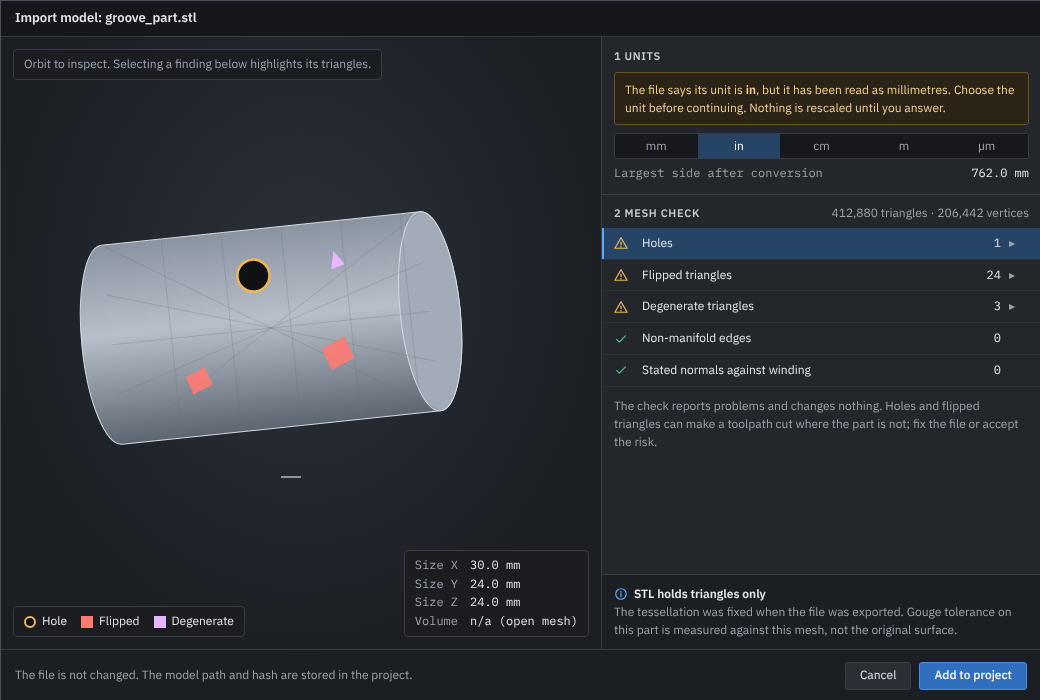
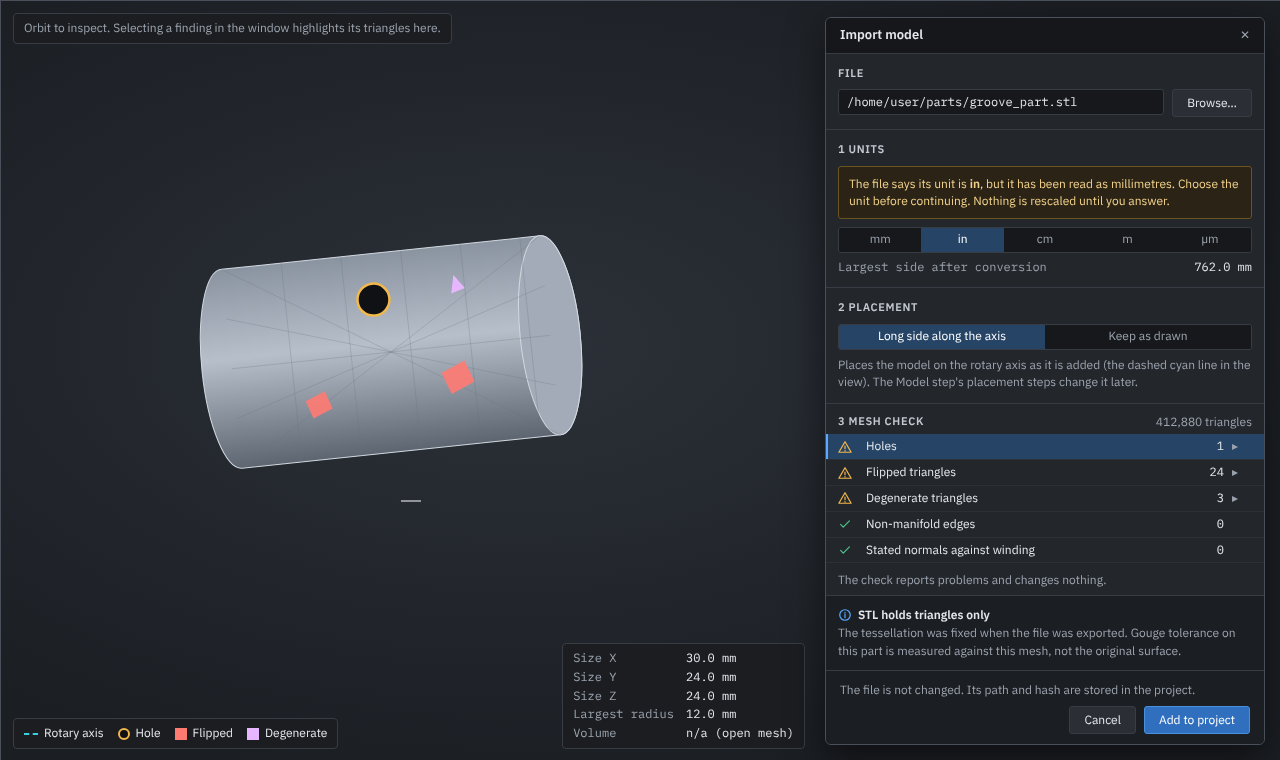
Lane X6: re-render the import, simulate and selection-set boards (OI-342, OI-340 items 4 to 7)
Claude-Session: https://claude.ai/code/session_01CaQnRYKkATbkhtZxbBrPDY

diff --git a/docs/ui-design/mockups/source/ImportCheck.dc.html b/docs/ui-design/mockups/source/ImportCheck.dc.html
@@ -12,7 +12,7 @@
 <link href="https://fonts.googleapis.com/css2?family=IBM+Plex+Mono:wght@400;500&family=IBM+Plex+Sans:wght@400;500;600&display=swap" rel="stylesheet">
 <style>
 body{margin:0}
-.dlg{--p:#23262b;--p2:#2b2f35;--ln:#383d45;--tx:#e4e7eb;--mu:#9ba3ae;--ac:#5aa9ff;--ok:#4cc38a;--wn:#f2b84b;--er:#ff7b72;width:1040px;height:700px;display:flex;flex-direction:column;background:var(--p);color:var(--tx);font:12px/1.4 'IBM Plex Sans',system-ui,sans-serif;overflow:hidden;border:1px solid #4a5059}
+.dlg{--p:#23262b;--p2:#2b2f35;--ln:#383d45;--tx:#e4e7eb;--mu:#9ba3ae;--ac:#5aa9ff;--ok:#4cc38a;--wn:#f2b84b;--er:#ff7b72;width:1280px;height:760px;position:relative;display:flex;flex-direction:column;background:var(--p);color:var(--tx);font:12px/1.4 'IBM Plex Sans',system-ui,sans-serif;overflow:hidden;border:1px solid #4a5059}
 .dlg *{box-sizing:border-box}
 .m{font-family:'IBM Plex Mono',monospace;font-variant-numeric:tabular-nums}
 .mu{color:var(--mu)}
@@ -26,19 +26,15 @@ button{font:inherit;color:inherit;cursor:pointer}
 .seg span{flex:1;display:flex;align-items:center;justify-content:center;background:#16181b;color:var(--mu)}
 .seg span.on{background:#264466;color:#fff}
 .seg span{min-width:0;padding:0 4px;white-space:nowrap;overflow:hidden;text-overflow:ellipsis}
-.ck{display:grid;grid-template-columns:20px 1fr 70px 20px;gap:8px;align-items:center;padding:7px 12px;border-bottom:1px solid #2d3137}
+.ck{display:grid;grid-template-columns:20px 1fr 70px 20px;gap:8px;align-items:center;padding:4px 12px;border-bottom:1px solid #2d3137}
 .ck.sel{background:#264466;box-shadow:inset 2px 0 0 var(--ac)}
 .cnt{text-align:right}
 </style>
 </helmet>
 <div class="dlg">
-  <div style="height:36px;flex:none;display:flex;align-items:center;justify-content:space-between;padding:0 14px;background:#15171a;border-bottom:1px solid var(--ln)">
-    <span style="font-weight:600;font-size:13px">Import model: groove_part.stl</span>
-      </div>
-  <div style="flex:1;min-height:0;display:flex">
-    <!-- preview -->
-    <div style="flex:1;min-width:0;position:relative;background:radial-gradient(ellipse at 50% 40%,#2c3139 0%,#1b1e23 75%)">
-      <svg viewBox="0 0 560 560" width="560" height="560" style="position:absolute;left:0;top:0" role="img" aria-label="Mesh preview with one hole and two flipped triangle regions highlighted">
+  <!-- main viewport behind the window: the placed model with findings, legend bottom left, size radius volume bottom right -->
+  <div style="flex:1;min-width:0;position:relative;background:radial-gradient(ellipse at 40% 45%,#2c3139 0%,#1b1e23 75%)">
+    <svg viewBox="0 0 560 560" preserveAspectRatio="xMidYMid meet" width="760" height="560" style="position:absolute;left:20px;top:60px" role="img" aria-label="Mesh preview with one hole and two flipped triangle regions highlighted">
         <defs><linearGradient id="b" x1="0" y1="0" x2="0" y2="1"><stop offset="0" stop-color="#8a93a0"/><stop offset=".45" stop-color="#b7bfca"/><stop offset="1" stop-color="#5d6570"/></linearGradient></defs>
         <g transform="rotate(-6 280 290)">
           <path d="M110 190H430A30 100 0 0 1 430 390H110A30 100 0 0 1 110 190z" fill="url(#b)" stroke="#d3d9e0"/>
@@ -50,44 +46,56 @@ button{font:inherit;color:inherit;cursor:pointer}
         </g>
         <path d="M280 440H300" stroke="#fff"/>
       </svg>
-      <div style="position:absolute;left:12px;top:12px;background:rgba(27,29,33,.92);border:1px solid var(--ln);border-radius:4px;padding:6px 10px" class="mu">Orbit to inspect. Selecting a finding below highlights its triangles.</div>
-      <div style="position:absolute;left:12px;bottom:12px;background:rgba(27,29,33,.92);border:1px solid var(--ln);border-radius:4px;padding:6px 10px;display:flex;gap:14px;align-items:center">
-        <span style="display:flex;align-items:center;gap:6px"><span style="width:12px;height:12px;border-radius:6px;background:#0f1114;border:2px solid var(--wn)"></span>Hole</span>
-        <span style="display:flex;align-items:center;gap:6px"><span style="width:12px;height:12px;background:var(--er)"></span>Flipped</span>
-        <span style="display:flex;align-items:center;gap:6px"><span style="width:12px;height:12px;background:#e8b6ff"></span>Degenerate</span>
-      </div>
-      <div class="m" style="position:absolute;right:12px;bottom:12px;background:rgba(27,29,33,.92);border:1px solid var(--ln);border-radius:4px;padding:6px 10px;display:grid;grid-template-columns:auto auto;gap:2px 12px">
-        <span class="mu">Size X</span><span>30.0 mm</span><span class="mu">Size Y</span><span>24.0 mm</span><span class="mu">Size Z</span><span>24.0 mm</span><span class="mu">Volume</span><span>n/a (open mesh)</span>
-      </div>
+    <div style="position:absolute;left:12px;top:12px;background:rgba(27,29,33,.92);border:1px solid var(--ln);border-radius:4px;padding:6px 10px" class="mu">Orbit to inspect. Selecting a finding in the window highlights its triangles here.</div>
+    <div style="position:absolute;left:12px;bottom:12px;background:rgba(27,29,33,.92);border:1px solid var(--ln);border-radius:4px;padding:6px 10px;display:flex;gap:14px;align-items:center">
+      <span style="display:flex;align-items:center;gap:6px"><span style="width:14px;height:0;border-top:2px dashed #35d0e0"></span>Rotary axis</span>
+      <span style="display:flex;align-items:center;gap:6px"><span style="width:12px;height:12px;border-radius:6px;background:#0f1114;border:2px solid var(--wn)"></span>Hole</span>
+      <span style="display:flex;align-items:center;gap:6px"><span style="width:12px;height:12px;background:var(--er)"></span>Flipped</span>
+      <span style="display:flex;align-items:center;gap:6px"><span style="width:12px;height:12px;background:#e8b6ff"></span>Degenerate</span>
     </div>
-
-    <!-- right column -->
-    <div style="width:440px;flex:none;border-left:1px solid var(--ln);display:flex;flex-direction:column;min-height:0">
+    <div class="m" style="position:absolute;left:12px;bottom:56px;background:rgba(27,29,33,.92);border:1px solid var(--ln);border-radius:4px;padding:6px 10px;display:none"></div>
+    <div class="m" style="position:absolute;right:476px;bottom:12px;background:rgba(27,29,33,.92);border:1px solid var(--ln);border-radius:4px;padding:6px 10px;display:grid;grid-template-columns:auto auto;gap:2px 12px">
+      <span class="mu">Size X</span><span>30.0 mm</span><span class="mu">Size Y</span><span>24.0 mm</span><span class="mu">Size Z</span><span>24.0 mm</span><span class="mu">Largest radius</span><span>12.0 mm</span><span class="mu">Volume</span><span>n/a (open mesh)</span>
+    </div>
+  </div>
+  <!-- the import window -->
+  <div style="position:absolute;right:16px;top:16px;bottom:16px;width:440px;display:flex;flex-direction:column;background:var(--p);border:1px solid #4a5059;border-radius:6px;box-shadow:0 12px 36px rgba(0,0,0,.5);overflow:hidden">
+    <div style="height:36px;flex:none;display:flex;align-items:center;justify-content:space-between;padding:0 14px;background:#15171a;border-bottom:1px solid var(--ln)"><span style="font-weight:600;font-size:13px">Import model</span><span class="mu">✕</span></div>
+    <div style="flex:1;min-height:0;display:flex;flex-direction:column;overflow:hidden">
+      <div style="padding:12px;border-bottom:1px solid var(--ln)">
+        <div class="h" style="margin-bottom:8px">File</div>
+        <div style="display:flex;gap:8px"><div class="fld m" style="flex:1;min-width:0"><span style="overflow:hidden;text-overflow:ellipsis;white-space:nowrap">/home/user/parts/groove_part.stl</span></div><button class="btn">Browse…</button></div>
+      </div>
       <div style="padding:12px;border-bottom:1px solid var(--ln)">
         <div class="h" style="margin-bottom:8px">1 Units</div>
         <div style="padding:8px 10px;border:1px solid #6b5420;background:#2a2316;border-radius:3px;color:#f2d28a;line-height:1.45;margin-bottom:8px">The file says its unit is <b>in</b>, but it has been read as millimetres. Choose the unit before continuing. Nothing is rescaled until you answer.</div>
         <div class="seg" style="margin-bottom:6px"><span>mm</span><span class="on">in</span><span>cm</span><span>m</span><span>µm</span></div>
         <div class="m" style="display:flex;justify-content:space-between"><span class="mu">Largest side after conversion</span><span>762.0 mm</span></div>
       </div>
+      <div style="padding:12px;border-bottom:1px solid var(--ln)">
+        <div class="h" style="margin-bottom:8px">2 Placement</div>
+        <div class="seg" style="margin-bottom:6px"><span class="on">Long side along the axis</span><span>Keep as drawn</span></div>
+        <div class="mu" style="line-height:1.45">Places the model on the rotary axis as it is added (the dashed cyan line in the view). The Model step's placement steps change it later.</div>
+      </div>
       <div style="flex:1;min-height:0;display:flex;flex-direction:column">
-        <div style="padding:10px 12px 6px;display:flex;justify-content:space-between;align-items:center"><span class="h">2 Mesh check</span><span class="mu">412,880 triangles · 206,442 vertices</span></div>
+        <div style="padding:10px 12px 4px;display:flex;justify-content:space-between;align-items:center"><span class="h">3 Mesh check</span><span class="mu">412,880 triangles</span></div>
         <div class="ck sel"><svg class="ib" style="color:var(--wn)" viewBox="0 0 16 16"><path d="M8 2l7 12H1zM8 7v3M8 12v.5"/></svg><span>Holes</span><span class="m cnt">1</span><span class="mu">▸</span></div>
         <div class="ck"><svg class="ib" style="color:var(--wn)" viewBox="0 0 16 16"><path d="M8 2l7 12H1zM8 7v3M8 12v.5"/></svg><span>Flipped triangles</span><span class="m cnt">24</span><span class="mu">▸</span></div>
         <div class="ck"><svg class="ib" style="color:var(--wn)" viewBox="0 0 16 16"><path d="M8 2l7 12H1zM8 7v3M8 12v.5"/></svg><span>Degenerate triangles</span><span class="m cnt">3</span><span class="mu">▸</span></div>
         <div class="ck"><svg class="ib" style="color:var(--ok)" viewBox="0 0 16 16"><path d="M3 8.5l3 3 7-7"/></svg><span>Non-manifold edges</span><span class="m cnt">0</span><span></span></div>
         <div class="ck"><svg class="ib" style="color:var(--ok)" viewBox="0 0 16 16"><path d="M3 8.5l3 3 7-7"/></svg><span>Stated normals against winding</span><span class="m cnt">0</span><span></span></div>
-        <div style="padding:10px 12px;color:var(--mu);line-height:1.5">The check reports problems and changes nothing. Holes and flipped triangles can make a toolpath cut where the part is not; fix the file or accept the risk.</div>
+        <div style="padding:8px 12px;color:var(--mu);line-height:1.5">The check reports problems and changes nothing.</div>
       </div>
       <div style="padding:10px 12px;border-top:1px solid var(--ln);background:#1b1e22;line-height:1.5"><b style="display:flex;align-items:center;gap:6px"><svg class="ib" style="color:var(--ac)" viewBox="0 0 16 16"><circle cx="8" cy="8" r="6"/><path d="M8 7v4M8 5v.5"/></svg>STL holds triangles only</b><span class="mu">The tessellation was fixed when the file was exported. Gouge tolerance on this part is measured against this mesh, not the original surface.</span></div>
     </div>
-  </div>
-  <div style="height:52px;flex:none;display:flex;align-items:center;justify-content:space-between;padding:0 14px;border-top:1px solid var(--ln);background:#1b1e22">
-    <span class="mu">The file is not changed. The model path and hash are stored in the project.</span>
-    <div style="display:flex;gap:8px"><button class="btn">Cancel</button><button class="btn pri">Add to project</button></div>
+    <div style="flex:none;padding:10px 14px;border-top:1px solid var(--ln);background:#1b1e22;display:flex;flex-direction:column;gap:8px">
+      <span class="mu" style="line-height:1.45">The file is not changed. Its path and hash are stored in the project.</span>
+      <div style="display:flex;gap:8px;justify-content:flex-end"><button class="btn">Cancel</button><button class="btn pri">Add to project</button></div>
+    </div>
   </div>
 </div>
 </x-dc>
-<script type="text/x-dc" data-dc-script data-props='{"$preview":{"width":1040,"height":700}}'>
+<script type="text/x-dc" data-dc-script data-props='{"$preview":{"width":1280,"height":760}}'>
 class Component extends DCLogic {
 renderVals() {
 return {};

diff --git a/docs/ui-design/mockups/source/SelectionSets.dc.html b/docs/ui-design/mockups/source/SelectionSets.dc.html
@@ -12,7 +12,7 @@
 <link href="https://fonts.googleapis.com/css2?family=IBM+Plex+Mono:wght@400;500&family=IBM+Plex+Sans:wght@400;500;600&display=swap" rel="stylesheet">
 <style>
 body{margin:0}
-.w{--p:#23262b;--p2:#2b2f35;--ln:#383d45;--ln2:#2d3137;--tx:#e4e7eb;--mu:#a3abb5;--ac:#5aa9ff;--ok:#4cc38a;--er:#ff7b72;--fld:#16181b;--sel:#264466;--seltx:#fff;--chip:#101215;width:1100px;height:300px;display:flex;flex-direction:column;background:var(--p);color:var(--tx);font:12px/1.4 'IBM Plex Sans',system-ui,sans-serif;overflow:hidden;border-top:1px solid var(--ln)}
+.w{--p:#23262b;--p2:#2b2f35;--ln:#383d45;--ln2:#2d3137;--tx:#e4e7eb;--mu:#a3abb5;--ac:#5aa9ff;--ok:#4cc38a;--er:#ff7b72;--fld:#16181b;--sel:#264466;--seltx:#fff;--chip:#101215;width:1100px;height:372px;display:flex;flex-direction:column;background:var(--p);color:var(--tx);font:12px/1.4 'IBM Plex Sans',system-ui,sans-serif;overflow:hidden;border-top:1px solid var(--ln)}
 .w.light{--p:#f6f7f9;--p2:#fff;--ln:#c9ced5;--ln2:#e2e5e9;--tx:#1d2125;--mu:#56606b;--ac:#1d6ad0;--ok:#1b7f53;--er:#c22b2b;--fld:#fff;--sel:#d4e5fb;--seltx:#0b2a52;--chip:#eef0f3}
 .w *{box-sizing:border-box}
 .m{font-family:'IBM Plex Mono',monospace;font-variant-numeric:tabular-nums}
@@ -23,7 +23,7 @@ button{font:inherit;color:inherit;cursor:pointer}
 .dt{padding:0 12px;height:32px;flex:none;display:flex;align-items:flex-end;gap:2px;border-bottom:1px solid var(--ln)}
 .dtab{padding:7px 12px;color:var(--mu);border-bottom:2px solid transparent}
 .dtab.on{color:var(--tx);border-bottom-color:var(--ac)}
-.r{display:grid;grid-template-columns:18px 1fr 130px 110px 210px 120px 120px;gap:10px;align-items:center;padding:0 12px;height:34px;border-bottom:1px solid var(--ln2)}
+.r{display:grid;grid-template-columns:18px 1fr 100px 100px 190px 240px 120px;gap:10px;align-items:center;padding:0 12px;height:34px;border-bottom:1px solid var(--ln2)}
 .r.h{height:28px;color:var(--mu);font-size:11px;border-bottom:1px solid var(--ln)}
 .r.sel{background:var(--sel);color:var(--seltx)}
 .sw{width:14px;height:14px;border-radius:2px}
@@ -36,25 +36,34 @@ button{font:inherit;color:inherit;cursor:pointer}
 </helmet>
 <div class="w {{theme}}">
   <div class="dt"><span class="dtab">Messages</span><span class="dtab on">Selection sets</span><span class="dtab">Jobs</span></div>
-  <div style="display:flex;align-items:center;gap:8px;padding:8px 12px;border-bottom:1px solid var(--ln)">
+  <div style="display:flex;flex-wrap:wrap;align-items:center;gap:8px;padding:8px 12px;border-bottom:1px solid var(--ln)">
     <button class="btn">New set from selection</button>
     <button class="btn">Add selection to set</button>
     <button class="btn">Remove from set</button>
+    <button class="btn">Replace set</button>
+    <button class="btn">Clear</button>
     <span style="width:1px;height:20px;background:var(--ln);margin:0 4px"></span>
-    <span class="mu">Select by angle within</span><div class="fld" style="width:80px"><b class="m" style="font-weight:400">15</b><span class="mu">°</span></div>
+    <span class="mu">By angle within</span><div class="fld" style="width:64px"><b class="m" style="font-weight:400">15</b><span class="mu">°</span></div>
+    <span class="mu">Same direction within</span><div class="fld" style="width:64px"><b class="m" style="font-weight:400">10</b><span class="mu">°</span></div>
     <span style="flex:1"></span>
-    <span class="mu">Meshes are selected by triangle; STEP models by face and edge.</span>
+    <span class="mu">Meshes: triangles and edges. STEP models: faces and edges.</span>
+  </div>
+  <div style="display:flex;align-items:center;gap:8px;padding:6px 12px;border-bottom:1px solid var(--ln);background:var(--chip)">
+    <svg class="ib" style="color:var(--ac)" viewBox="0 0 16 16"><circle cx="8" cy="8" r="6" stroke-dasharray="20 18"/></svg>
+    <span>Checking the selection against the model…</span>
+    <button class="btn" style="height:22px;padding:0 8px">Cancel</button>
+    <span class="mu">The other save and edit buttons wait until it ends.</span>
   </div>
   <div style="flex:1;overflow:hidden">
     <div class="r h"><span></span><span>Name</span><span>Kind</span><span style="text-align:right">Size</span><span>Used by</span><span>Status</span><span></span></div>
-    <div class="r sel"><span class="sw" style="background:#2d6cb5"></span><span style="font-weight:500">Groove floor</span><span>Triangles</span><span class="m" style="text-align:right">8,214</span><span>Op 2 (cut on)</span><span style="display:flex;gap:6px;align-items:center"><span class="st ok"></span>Matches model</span><a class="lk">Select in view</a></div>
-    <div class="r"><span class="sw" style="background:#a04a46"></span><span>Rim (avoid)</span><span>Triangles</span><span class="m" style="text-align:right">1,030</span><span>Op 2 (avoid)</span><span style="display:flex;gap:6px;align-items:center"><span class="st ok"></span>Matches model</span><a class="lk">Select in view</a></div>
-    <div class="r"><span class="sw" style="background:#7d5bb5"></span><span>Lettering</span><span>Edges</span><span class="m" style="text-align:right">28 of 40</span><span>Op 4 (follow)</span><span style="display:flex;gap:6px;align-items:center;color:var(--er)"><span class="st er"></span>12 missing</span><a class="lk">Reselect</a></div>
+    <div class="r sel"><span class="sw" style="background:#2d6cb5"></span><span style="font-weight:500">Groove floor</span><span>Triangles</span><span class="m" style="text-align:right">8,214</span><span>Op 2 (cut on)</span><span style="display:flex;gap:6px;align-items:center"><span class="st ok"></span>Matches model</span><span style="display:flex;gap:10px;align-items:center"><a class="lk">Select in view</a><span class="mu" aria-label="Row menu: Rename, Delete">⋯</span></span></div>
+    <div class="r"><span class="sw" style="background:#a04a46"></span><span>Rim (avoid)</span><span>Triangles</span><span class="m" style="text-align:right">1,030</span><span>Op 2 (avoid)</span><span style="display:flex;gap:6px;align-items:center"><span class="st ok"></span>Matches model</span><span style="display:flex;gap:10px;align-items:center"><a class="lk">Select in view</a><span class="mu" aria-label="Row menu: Rename, Delete">⋯</span></span></div>
+    <div class="r"><span class="sw" style="background:#7d5bb5"></span><span>Lettering</span><span>Edges</span><span class="m" style="text-align:right">28 of 40</span><span>Op 4 (follow)</span><span style="display:flex;gap:6px;align-items:center;color:var(--er)"><span class="st er"></span>12 of 40 edges missing</span><span style="display:flex;gap:10px;align-items:center"><a class="lk">Reselect</a><span class="mu" aria-label="Row menu: Rename, Delete">⋯</span></span></div>
   </div>
-  <div class="mu" style="padding:8px 12px;border-top:1px solid var(--ln)">Editing a set marks every operation that uses it stale.</div>
+  <div class="mu" style="padding:8px 12px;border-top:1px solid var(--ln)">Editing a set marks every operation that uses it stale. Delete is refused while an operation uses the set, and names the operations.</div>
 </div>
 </x-dc>
-<script type="text/x-dc" data-dc-script data-props='{"theme":{"editor":"enum","options":["dark","light"],"default":"dark"},"$preview":{"width":1100,"height":300}}'>
+<script type="text/x-dc" data-dc-script data-props='{"theme":{"editor":"enum","options":["dark","light"],"default":"dark"},"$preview":{"width":1100,"height":372}}'>
 class Component extends DCLogic {
 renderVals() {
 return { theme: this.props.theme ?? 'dark' };

diff --git a/docs/ui-design/mockups/source/Simulate.dc.html b/docs/ui-design/mockups/source/Simulate.dc.html
@@ -202,7 +202,7 @@ button{font:inherit;color:inherit;cursor:pointer}
         </div>
       </div>
       <div class="splh" role="separator" aria-orientation="horizontal" aria-label="Resize playback panel"><i></i></div>
-      <div class="panel" style="height:196px;flex:none">
+      <div class="panel" style="height:216px;flex:none">
         <div class="ph"><span>Playback</span><span class="n m">Move 11,240 of 18,420 · operation 2</span></div>
         <div style="flex:1;min-height:0;display:flex">
           <div style="flex:1;min-width:0;padding:10px 12px;display:flex;flex-direction:column;gap:10px">
@@ -212,9 +212,12 @@ button{font:inherit;color:inherit;cursor:pointer}
               <button class="tbt" style="background:#2f6fbd;border-color:#4a8fe0;color:#fff" aria-label="Play" title="Play or pause (Space)"><svg class="ib" viewBox="0 0 16 16"><path d="M5 3l8 5-8 5z"/></svg></button>
               <button class="tbt" aria-label="Step forward" title="Step forward (→)"><svg class="ib" viewBox="0 0 16 16"><path d="M6 3l5 5-5 5"/></svg></button>
               <button class="tbt" aria-label="Next operation" title="Next operation (Shift →)"><svg class="ib" viewBox="0 0 16 16"><path d="M12 3v10M3 3l6 5-6 5z"/></svg></button>
-              <span class="sep"></span>
+            </div>
+            <div style="display:flex;align-items:center;gap:6px;white-space:nowrap">
               <span class="mu">Speed</span>
-              <div class="seg" style="width:180px"><span>1×</span><span>10×</span><span class="on">100×</span><span>Max</span></div>
+              <div class="seg" style="width:290px"><span>1×</span><span>10×</span><span class="on">100×</span><span>1000×</span><span>10 000×</span><span>Max</span></div>
+              <span class="mu">Whole program</span>
+              <div class="seg" style="width:80px"><span>10 s</span><span>60 s</span></div>
             </div>
             <div>
               <div class="tl">
